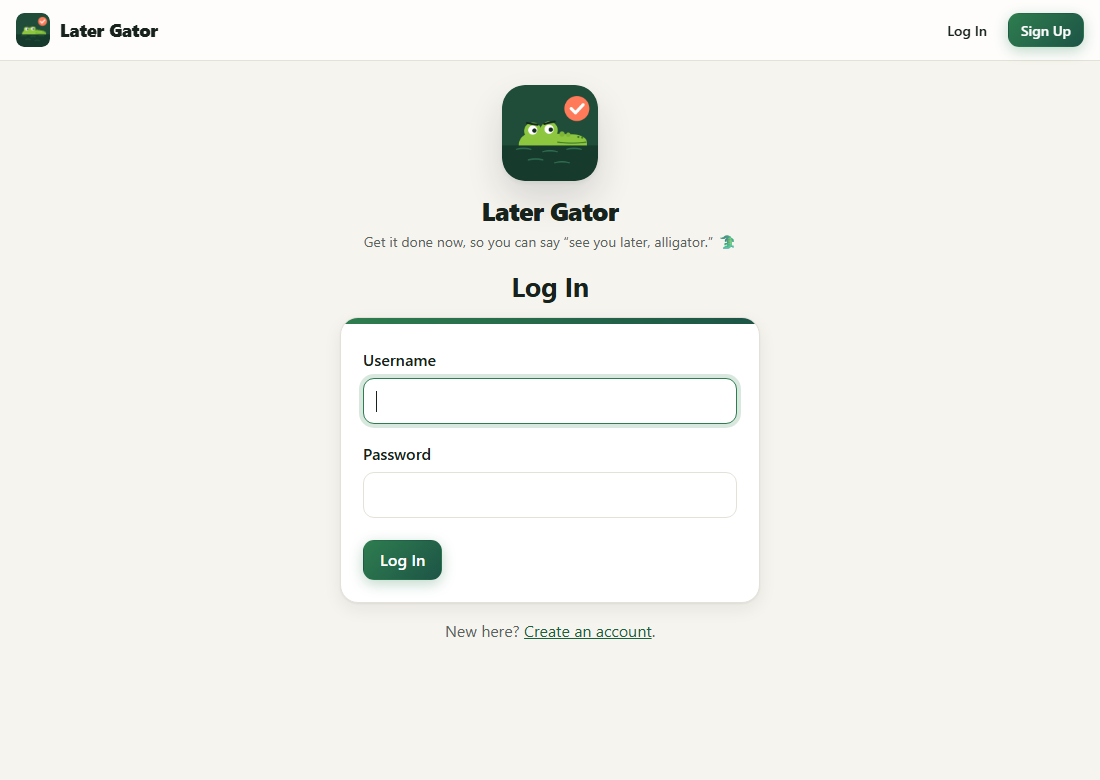
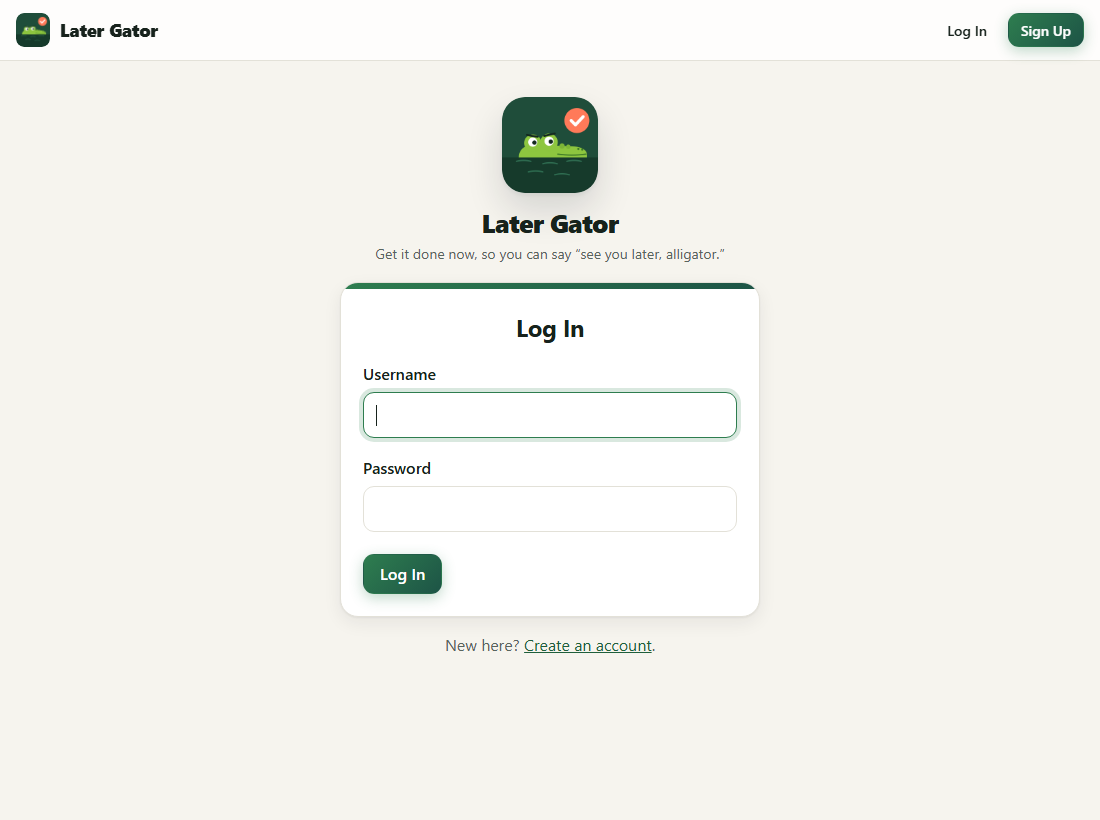
Put the log in heading inside the card, drop the emoji from the tagline
- "Log In" and "Create an Account" (and their error messages) now sit at
  the top of the form card, centered, instead of above it.
- The tagline ends at "see you later, alligator." without the 🐊.
- README login screenshot retaken.

diff --git a/todo/templates/register.html b/todo/templates/register.html
@@ -8,21 +8,18 @@
   <div class="auth-brand">
     <img src="{{ url_for('static', filename='logo.png') }}" alt="" width="96" height="96">
     <p class="auth-name">Later Gator</p>
-    <p class="hint">Get it done now, so you can say “see you later, alligator.” 🐊</p>
+    <p class="hint">Get it done now, so you can say “see you later, alligator.”</p>
   </div>
-
-  <div class="page-head">
-    <h1>Create an Account</h1>
-  </div>
-
-  {% if errors %}
-    <p class="flash flash-error" role="alert">
-      Please fix {{ 'the error' if errors|length == 1 else 'the ' ~ errors|length ~ ' errors' }} below.
-    </p>
-  {% endif %}
 
   <form class="card" method="post">
     <input type="hidden" name="csrf_token" value="{{ csrf_token() }}">
+    {# The heading and the error summary sit inside the card, with the form they belong to. #}
+    <h1 class="card-title">Create an Account</h1>
+    {% if errors %}
+      <p class="flash flash-error" role="alert">
+        Please fix {{ 'the error' if errors|length == 1 else 'the ' ~ errors|length ~ ' errors' }} below.
+      </p>
+    {% endif %}
 
     <div class="field{% if errors.username %} has-error{% endif %}">
       <label for="username">Username</label>

diff --git a/todo/templates/login.html b/todo/templates/login.html
@@ -8,17 +8,14 @@
   <div class="auth-brand">
     <img src="{{ url_for('static', filename='logo.png') }}" alt="" width="96" height="96">
     <p class="auth-name">Later Gator</p>
-    <p class="hint">Get it done now, so you can say “see you later, alligator.” 🐊</p>
+    <p class="hint">Get it done now, so you can say “see you later, alligator.”</p>
   </div>
-
-  <div class="page-head">
-    <h1>Log In</h1>
-  </div>
-
-  {% if error %}<p class="flash flash-error" role="alert">{{ error }}</p>{% endif %}
 
   <form class="card" method="post">
     <input type="hidden" name="csrf_token" value="{{ csrf_token() }}">
+    {# The heading and any error sit inside the card, with the form they belong to. #}
+    <h1 class="card-title">Log In</h1>
+    {% if error %}<p class="flash flash-error" role="alert">{{ error }}</p>{% endif %}
 
     {# autocomplete tells password managers what each box is for. #}
     <div class="field">

diff --git a/todo/static/style.css b/todo/static/style.css
@@ -1216,8 +1216,8 @@ fieldset.field { padding: 0; border: 0; }
   margin: 0 auto;
   text-align: center;
 }
-.auth .page-head { justify-content: center; margin-bottom: 14px; }
 .auth .card { text-align: left; } /* the form itself reads best left-aligned */
+.card-title { margin: 0 0 20px; font-size: 1.5rem; text-align: center; }
 .auth .card { position: relative; overflow: hidden; padding-top: 30px; }
 .auth .card::before {
   content: "";

diff --git a/tests/test_ui.py b/tests/test_ui.py
@@ -188,3 +188,18 @@ def test_gator_is_the_default_theme_and_grape_is_still_there(client, post):
     assert '<span class="theme-name">Grape</span>' in html
     post("/profile/theme", {"theme": "grape", "appearance": "light"})
     assert 'data-theme="grape"' in client.get("/").get_data(as_text=True)
+
+
+def test_login_heading_is_inside_the_card(guest):
+    for url, heading in [("/login", "Log In"), ("/register", "Create an Account")]:
+        html = guest.get(url).get_data(as_text=True)
+        card = html[html.index('<form class="card"'):html.index("</form>")]
+        assert f'<h1 class="card-title">{heading}</h1>' in card
+        assert "alligator.”</p>" in html  # the tagline ends without an emoji
+        assert "🐊" not in html
+
+
+def test_login_error_shows_inside_the_card(guest, post):
+    html = post("/login", {"username": "nobody", "password": "nope nope"}).get_data(as_text=True)
+    card = html[html.index('<form class="card"'):html.index("</form>")]
+    assert "Incorrect username or password." in card
